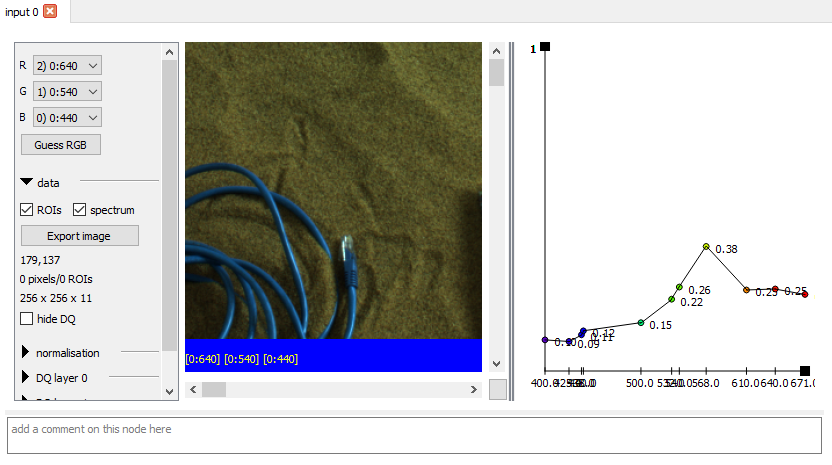
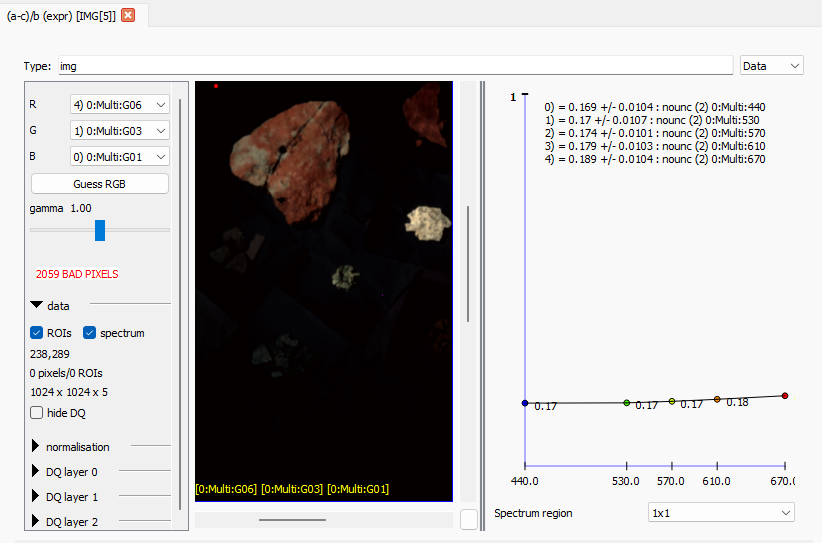
new canvas spectrum area docs

diff --git a/mkdocs/docs/userguide/canvas.md b/mkdocs/docs/userguide/canvas.md
@@ -35,14 +35,22 @@ which calculations are performed. They also control the regions used
 for calculating spectra. Normally an ROI is only shown in the node which adds
 it.
 * **Show spectrum** opens a side pane, and dragging the cursor across the
-image will plot the spectrum of the pixel under the cursor in this pane. If
+image will plot the spectrum of the pixel (or area of pixels) under the cursor in this pane. If
 no filter wavelengths are available, a list of the values for each band is shown.
 The show spectrum pane looks like this:
 
 ![!The "show spectrum" pane on an input node's canvas|canvasspec](canvasspec.png)
 
-The screenshot isn't showing the cursor, unfortunately, but the spectrum is for
-the pixel under the cursor.
+The screenshot isn't showing the cursor, unfortunately, but the spectrum is
+for the pixel under the cursor. 
+
+With PCOT version 0.12 (JOANEY HOW) and later,
+it's possible to show the spectrum for an area of pixels shown by a red
+square. This is done by selecting a value that isn't "1x1" in the Spectrum
+Region combo box. The spectrum
+plotted will show the mean and pooled standard deviation (by Rudmin's
+method, in which the pooled variance is the variance of the mean plus
+the mean of the individual pixel variances).
 
 When a spectrum view is opened the image pane can be tiny - to fix this you
 can resize the PCOT window (or undocked node window), or drag the separator
